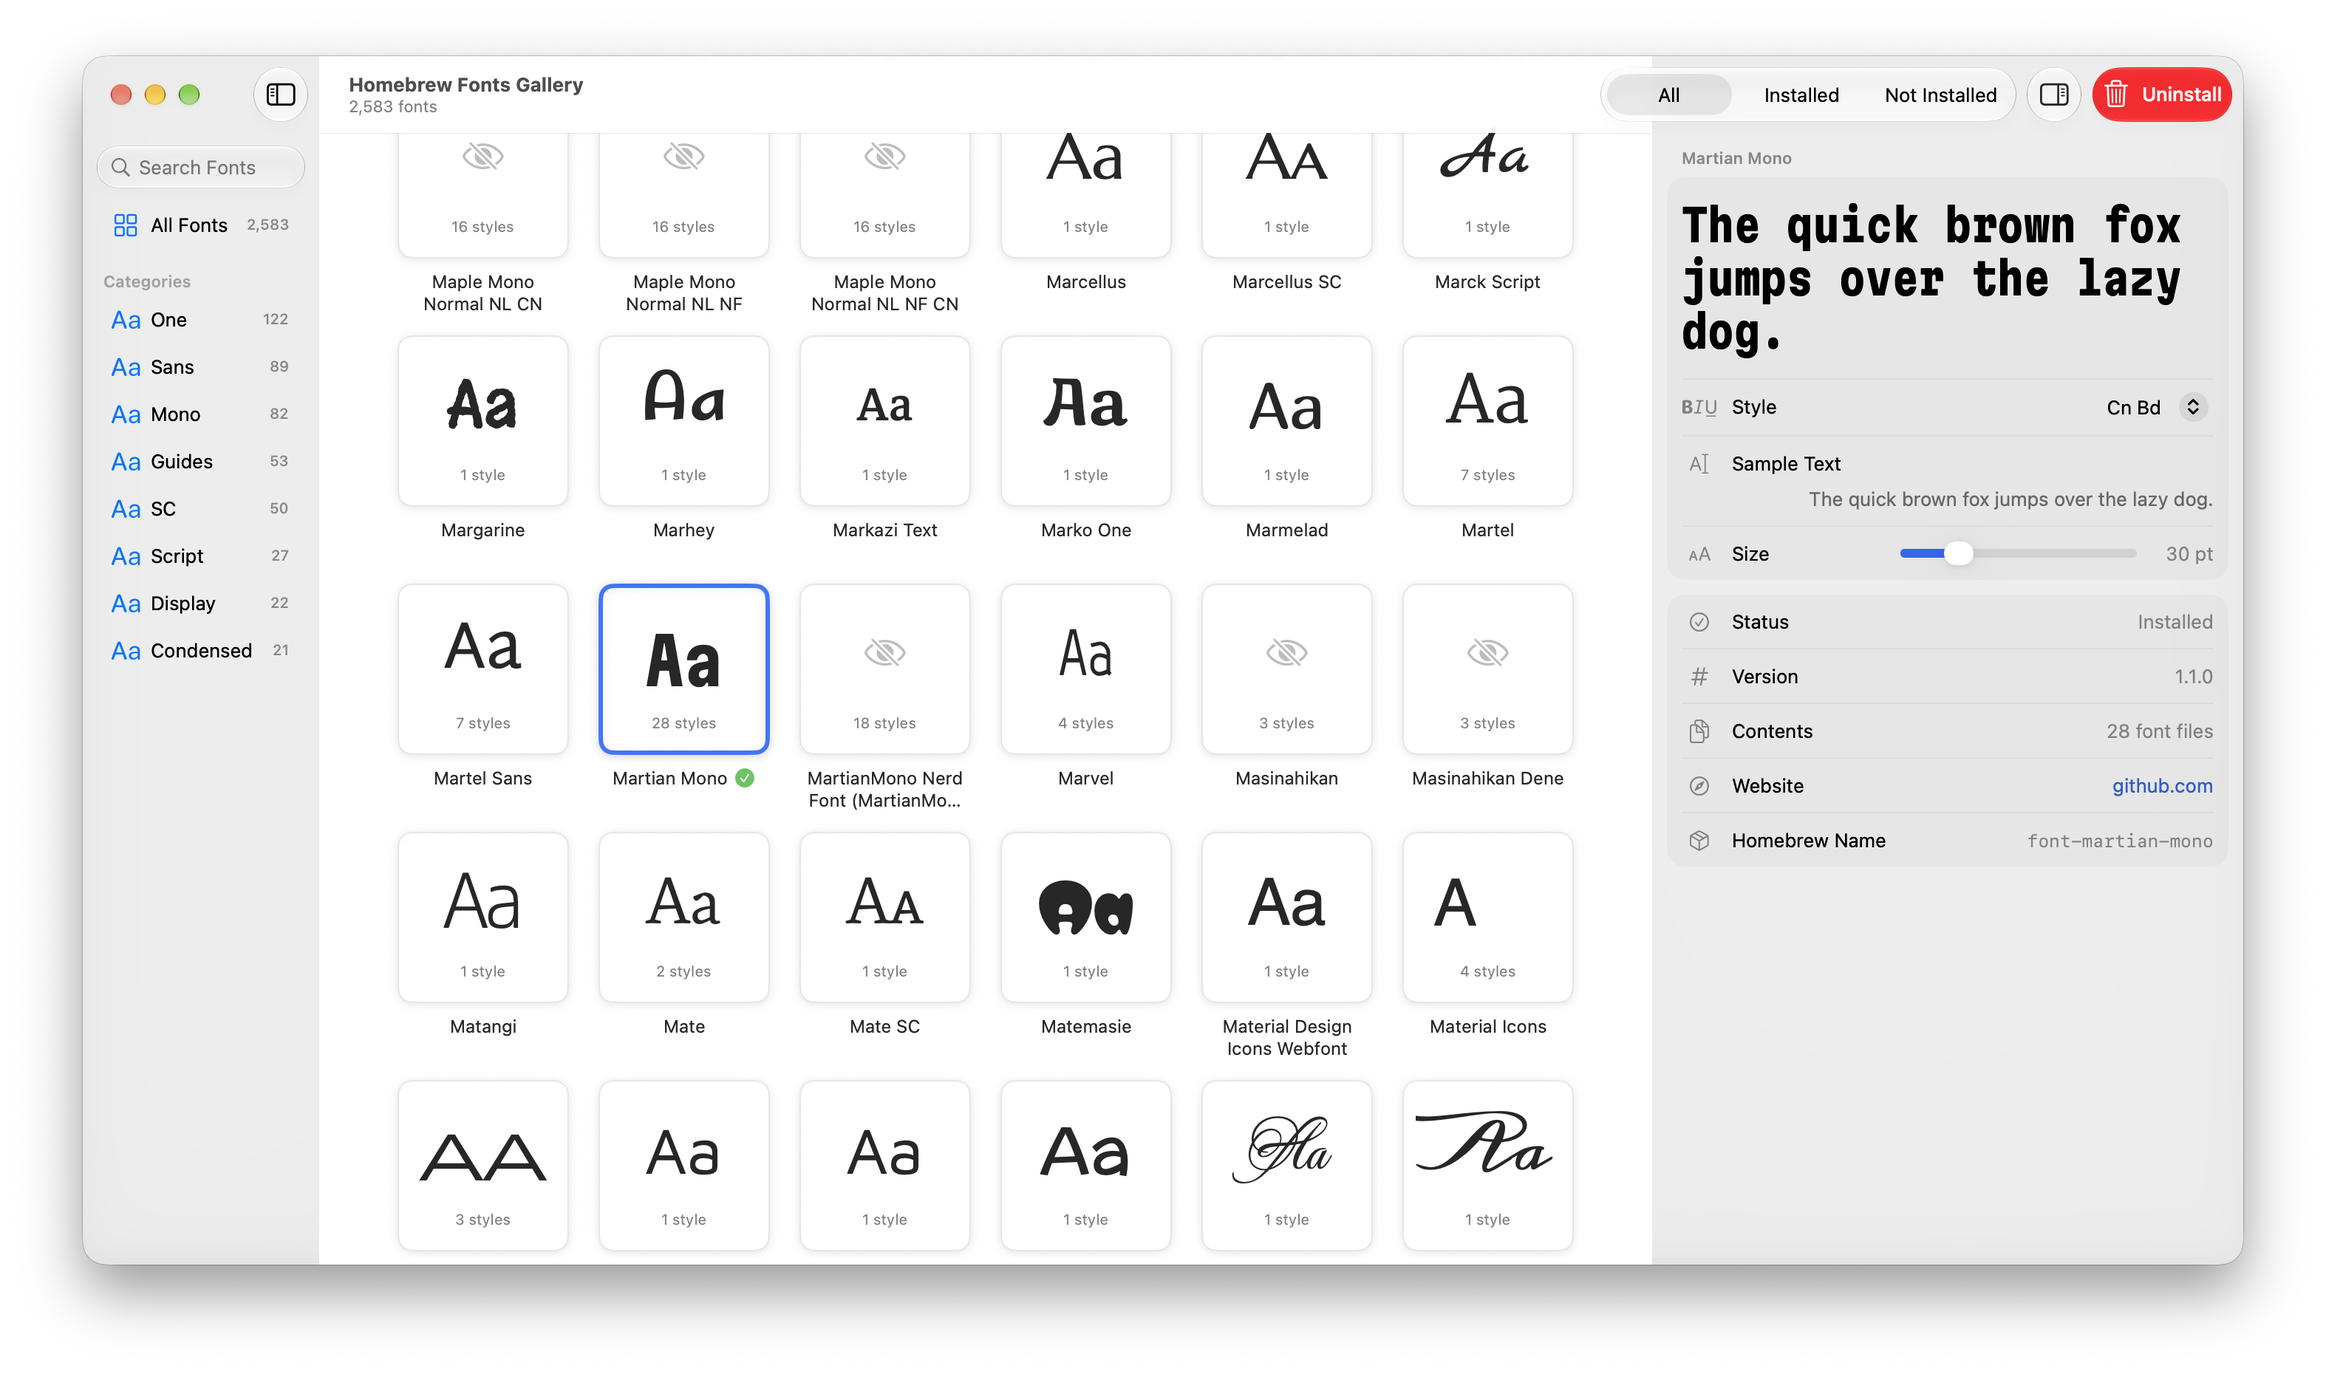
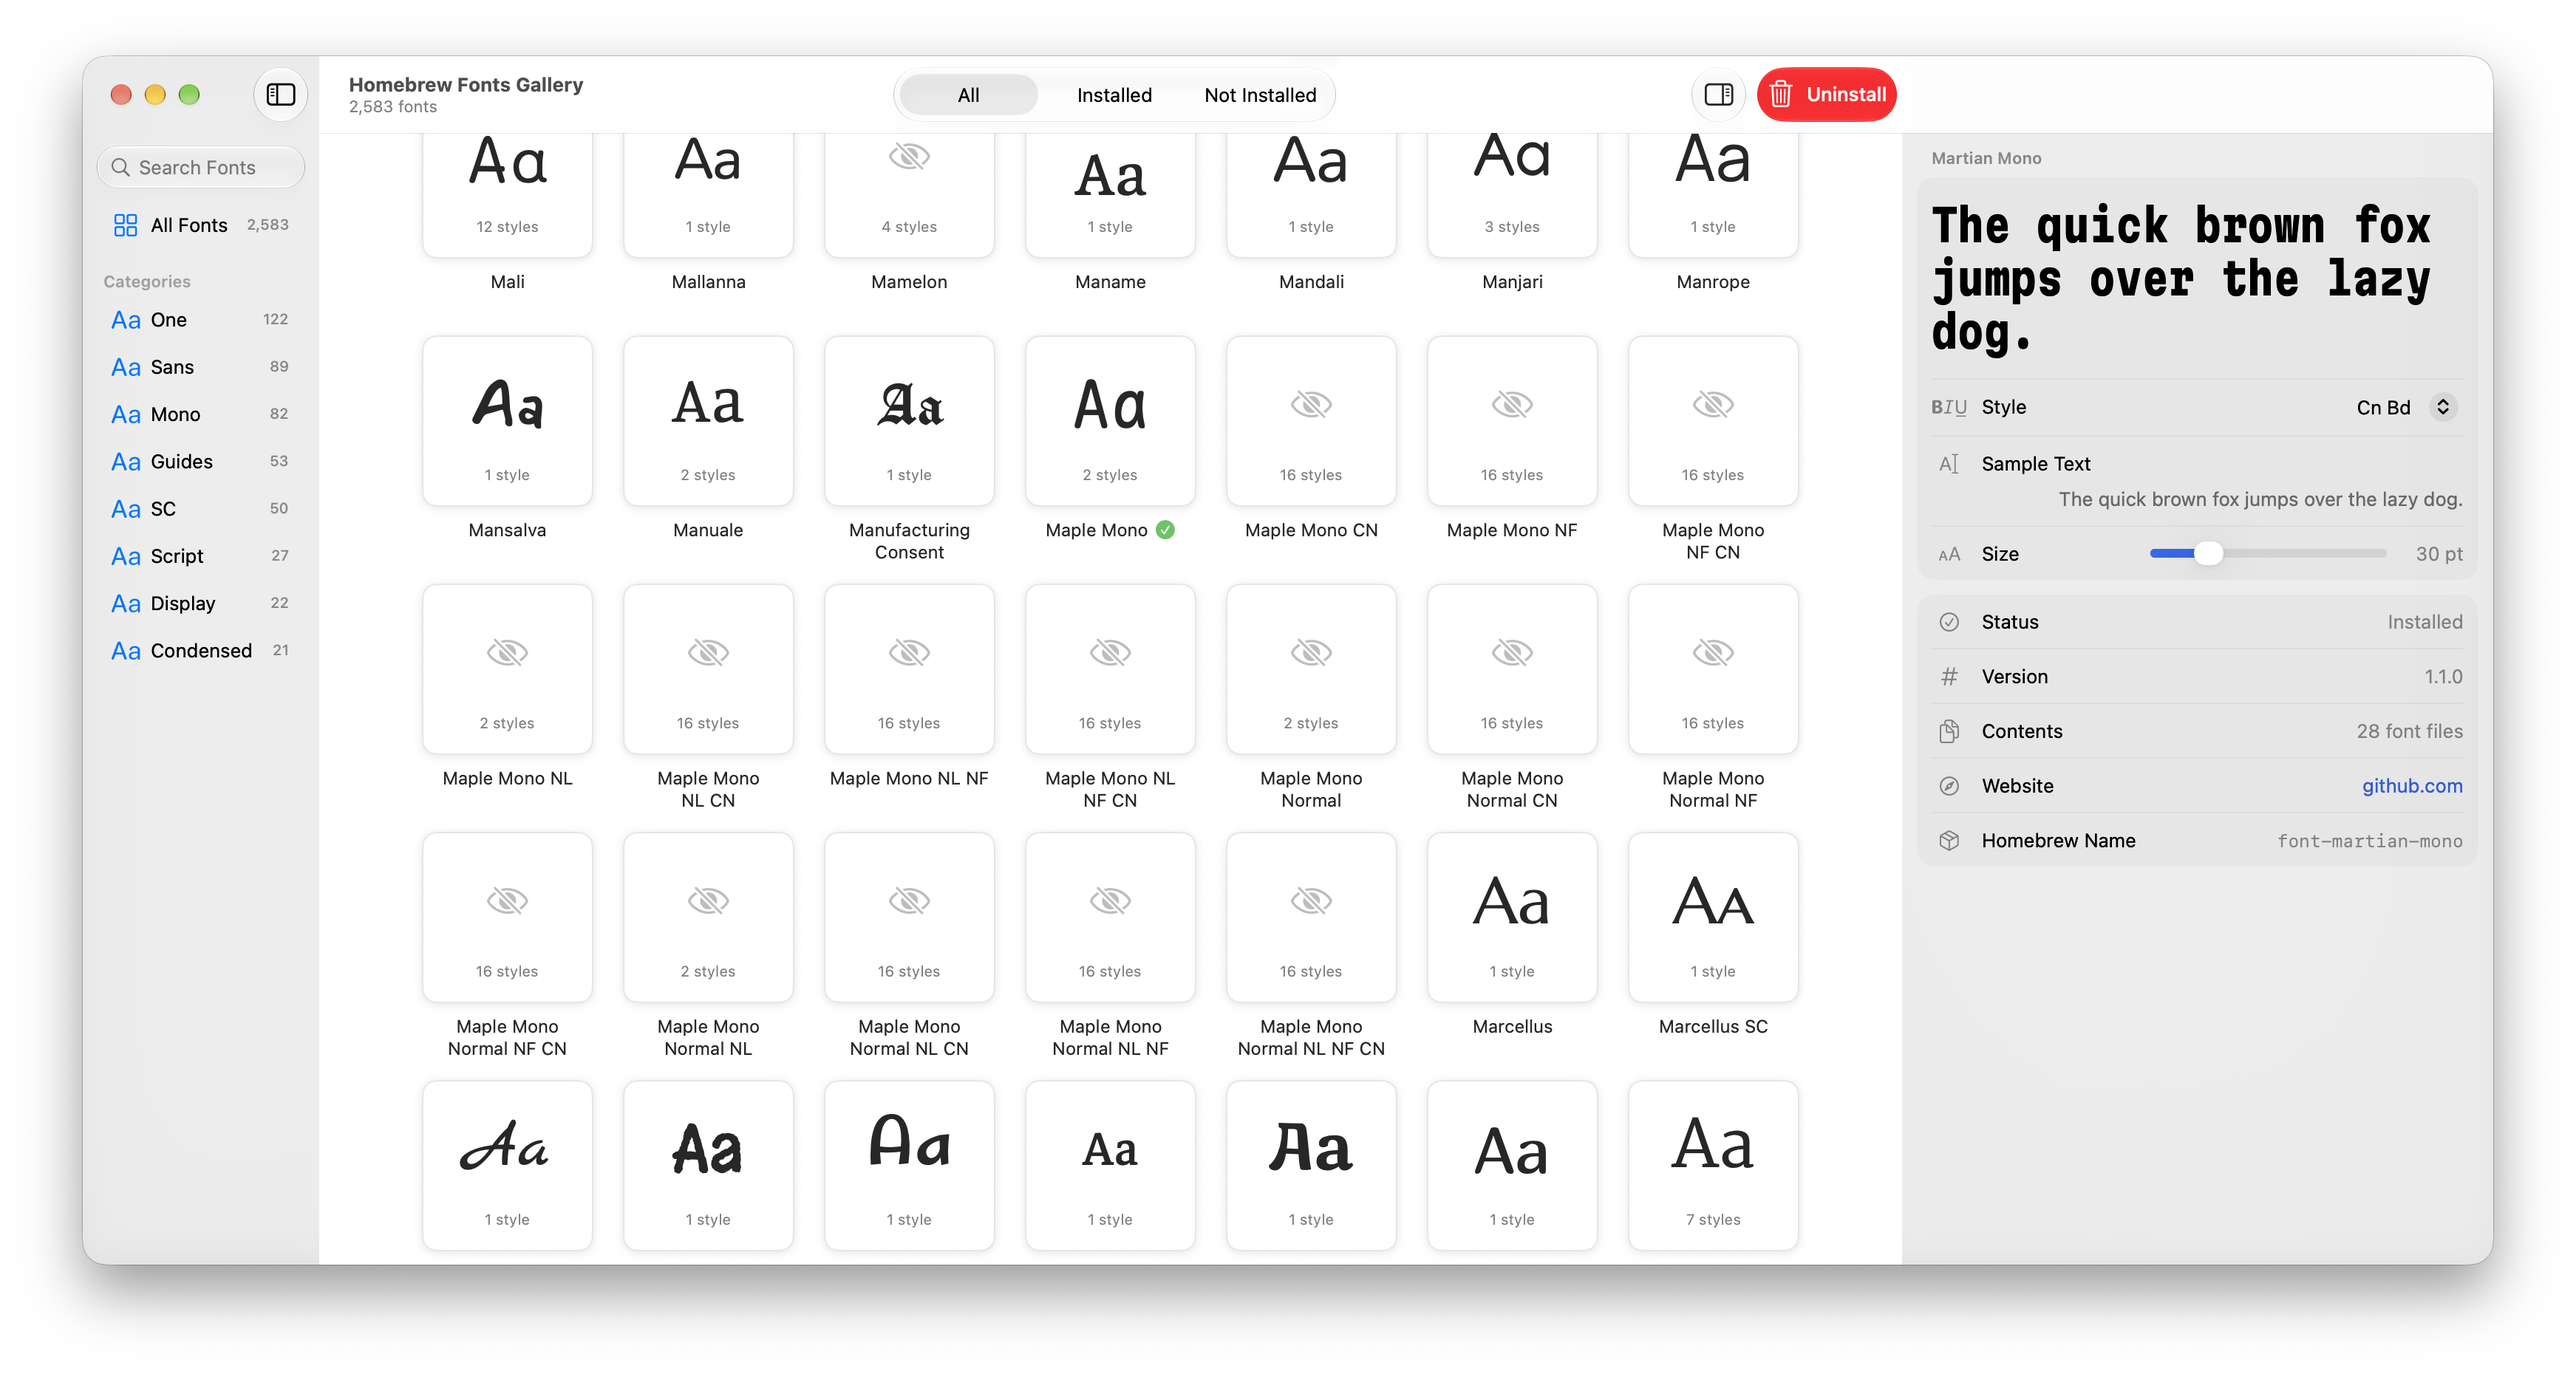
Centre the filter and end the toolbar at the edge of the grid
The details pane now runs the full height of the window, with the
toolbar's buttons kept to the left of it. The pane has a set width so
the toolbar can leave exactly that much room. The All, Installed and
Not Installed filter sits in the centre of the toolbar.

diff --git a/HomebrewFontGallery/ContentView.swift b/HomebrewFontGallery/ContentView.swift
@@ -6,6 +6,7 @@ struct ContentView: View {
     @State private var confirmingCancel = false
     @State private var detailsHidden = false
     @State private var columnCount = 3
+    private static let detailsWidth: CGFloat = 400
     /// The font that was selected when the app was last used.
     @AppStorage("selectedFont") private var lastSelection = ""
 
@@ -14,7 +15,32 @@ struct ContentView: View {
             sidebar
                 .navigationSplitViewColumnWidth(min: 160, ideal: 190, max: 260)
         } detail: {
-            gallery
+            // Outside the navigation stack, the details pane runs the full height of the
+            // window and the toolbar stops at the edge of the grid.
+            NavigationStack {
+                gallery
+            }
+            .inspector(isPresented: showingDetails) {
+                if let font = model.selectedFont {
+                    FontDetailView(font: font, activity: model.activity, status: model.status)
+                        // A set width, so the toolbar can leave exactly that much room above it.
+                        .inspectorColumnWidth(Self.detailsWidth)
+                        // An empty stretch of toolbar as wide as the pane keeps the window's
+                        // buttons to the left of it, so the toolbar ends where the grid does.
+                        .toolbar {
+                            if #available(macOS 26.0, *) {
+                                ToolbarItem {
+                                    toolbarGap
+                                }
+                                .sharedBackgroundVisibility(.hidden)
+                            } else {
+                                ToolbarItem {
+                                    toolbarGap
+                                }
+                            }
+                        }
+                }
+            }
         }
         // Searching from the sidebar leaves the far right of the toolbar to the font's action.
         .searchable(text: $model.searchText, placement: .sidebar, prompt: "Search Fonts")
@@ -43,16 +69,10 @@ struct ContentView: View {
 
     private var gallery: some View {
         content
-            .inspector(isPresented: showingDetails) {
-                if let font = model.selectedFont {
-                    FontDetailView(font: font, activity: model.activity, status: model.status)
-                        .inspectorColumnWidth(min: 340, ideal: 400, max: 560)
-                }
-            }
             .navigationTitle("Homebrew Fonts Gallery")
             .navigationSubtitle(subtitle)
             .toolbar {
-                ToolbarItem {
+                ToolbarItem(placement: .principal) {
                     Picker("Show", selection: $model.filter) {
                         ForEach(GalleryModel.Filter.allCases) { filter in
                             Text(filter.rawValue).tag(filter)
@@ -61,7 +81,7 @@ struct ContentView: View {
                     .pickerStyle(.segmented)
                     .help("Show all fonts, or only the ones that are installed or not installed.")
                 }
-                ToolbarItem(placement: .primaryAction) {
+                ToolbarItem {
                     Button {
                         detailsHidden.toggle()
                     } label: {
@@ -70,7 +90,7 @@ struct ContentView: View {
                     .disabled(model.selectedFont == nil)
                     .help(detailsHidden ? "Show the selected font’s details." : "Hide the selected font’s details.")
                 }
-                ToolbarItem(placement: .primaryAction) {
+                ToolbarItem {
                     primaryAction
                 }
             }
@@ -108,6 +128,11 @@ struct ContentView: View {
                     detailsHidden = false
                 }
             }
+    }
+
+    private var toolbarGap: some View {
+        // With the pane hidden there is nothing to leave room for.
+        Color.clear.frame(width: showingDetails.wrappedValue ? Self.detailsWidth - 12 : 0, height: 28).fixedSize()
     }
 
     /// The details pane slides out whenever a font is selected, unless it has been hidden.
